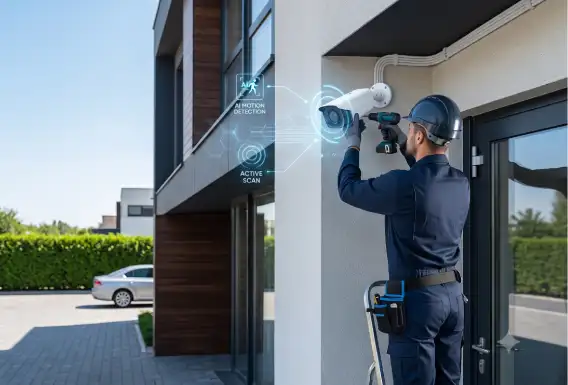
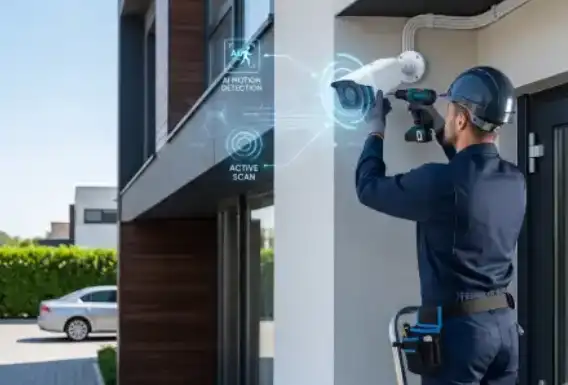
new image add

diff --git a/index.html b/index.html
@@ -87,7 +87,7 @@ height="0" width="0" style="display:none;visibility:hidden"></iframe></noscript>
                 
                 <!-- Service 1 -->
                 <div class="service-card">
-                    <img src="https://images.unsplash.com/photo-1516321318423-f06f85e504b3?auto=format&fit=crop&w=600&q=80" alt="Home Security Camera Monitoring">
+                    <img src="assets/img/residential-cctv-Installation.webp" alt="Home Security Camera Monitoring">
                     <div class="service-info">
                         <h3>Residential CCTV Installation</h3>
                         <p>Protect your home and loved ones. We install sleek Dome and Bullet cameras covering all entry points, paired with intuitive mobile apps for push alerts if motion is detected.</p>
@@ -96,7 +96,7 @@ height="0" width="0" style="display:none;visibility:hidden"></iframe></noscript>
 
                 <!-- Service 2 -->
                 <div class="service-card">
-                    <img src="https://images.unsplash.com/photo-1454165804606-c3d57bc86b40?auto=format&fit=crop&w=600&q=80" alt="Commercial Business CCTV Network">
+                    <img src="assets/img/commercial-cctv-installation-service.webp" alt="Commercial Business CCTV Network">
                     <div class="service-info">
                         <h3>Commercial Surveillance Systems</h3>
                         <p>Complete enterprise-grade security assets including multi-channel NVR recorders, structural structured network cabling, and robust vandal-proof indoor/outdoor hardware arrays.</p>
@@ -105,7 +105,7 @@ height="0" width="0" style="display:none;visibility:hidden"></iframe></noscript>
 
                 <!-- Service 3 -->
                 <div class="service-card">
-                    <img src="https://images.unsplash.com/photo-1581092160607-ee22621dd758?auto=format&fit=crop&w=600&q=80" alt="CCTV Repair and Maintenance">
+                    <img src="assets/img/security-camera-maintenance-service.webp" alt="CCTV Repair and Maintenance">
                     <div class="service-info">
                         <h3>System Upgrades & Maintenance</h3>
                         <p>Experiencing camera downtime, blurry footage, or storage issues? We offer comprehensive diagnosis, lens cleaning, hard drive replacements, and analog-to-IP system upgrades.</p>